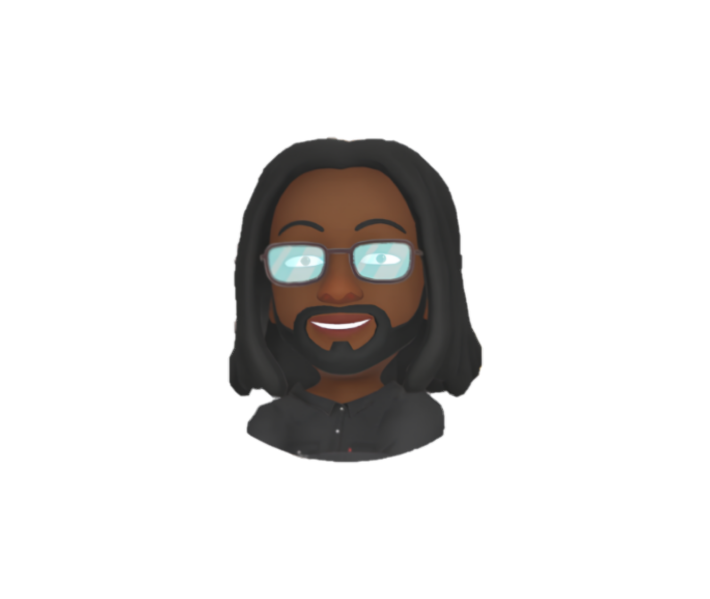
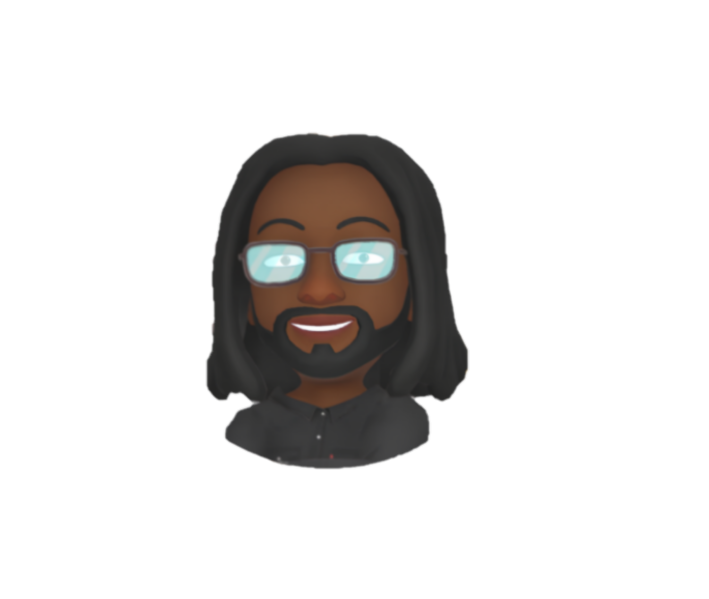
Part main mobile ok !

Changed region(s): [[0.2793, 0.2104, 0.6827, 0.7813]]

diff --git a/src/components/Main/Main.jsx b/src/components/Main/Main.jsx
@@ -1,23 +1,47 @@
 import './Main.css';
-import purpleLandscape from '../../assets/purple-landscape.png';
-import miniCurt from '../../assets/mini-curt.png';
 import Header from '../../common/Header/Header';
 import { useTranslation } from 'react-i18next';
+
+// Images
+import purpleLandscape from '../../assets/purple-landscape.png';
+import miniCurt from '../../assets/mini-curt.png';
+import iconGitHub from '../../assets/icon-github.png';
+import iconLinkedin from '../../assets/icon-linkedin.png';
+import iconMail from '../../assets/icon-mail.png';
 
 function Main() {
   let { t } = useTranslation();
 
   return (
-      <div className="Main">
-        <Header/>
-        <div className='container_main-img'>
-          <img className='purple_landscape' src={purpleLandscape} alt="purple landscape" />
-          <img className="mini_curt" src={miniCurt}  alt="mini curt" />
+    <div id="Main">
+      <Header/>
+      <div className='container-img'>
+        <img className='purple_landscape' src={purpleLandscape} alt={t('main.purple-landscape')} />
+        <img className="mini_curt" src={miniCurt}  alt="mini curt" />
       </div>
-      <h1>
-          FANCHONNA Curtis <br/>
-          {t('main.developer')} FULL STACK
-      </h1>
+      <div className='container-title'>
+        <h1>
+            FANCHONNA Curtis <br/>
+            {t('main.developer')} FULL STACK
+        </h1>
+        <div className='container-icons'>      
+            <a href='https://github.com/KeotiseuF'>
+              <img src={iconGitHub} alt={t('main.icon-github')} />
+            </a>
+            <a href='https://www.linkedin.com/in/f-curtis/'>
+              <img src={iconLinkedin} alt={t('main.icon-linkedin')} />
+            </a>
+            <a href='mailto:f.curtis.dev@gmail.com'>
+              <img src={iconMail} alt={t('main.icon-mail')} />
+            </a>
+        </div>
+      </div>
+      <div className='container_presentation'>
+        <h2>{t('main.title-presentation')}</h2>
+        <p>
+          {t('main.presentation')}
+        </p>
+      </div>
     </div>
   );
 }

diff --git a/src/components/Main/Main.css b/src/components/Main/Main.css
@@ -1,9 +1,4 @@
-.main {
-    background: aqua;
-    height: 100vh;
-}
-
-.container_main-img {
+.container-img {
     position: absolute;
     top: 0;
     z-index: 3;
@@ -19,13 +14,47 @@
     z-index: 1;
 }
 
-h1 {
-    text-align: center;
+.container-title {
+    display: flex;
+    align-items: center;
+    flex-direction: column;
     position: relative;
     z-index: 4;
-    font-size: x-large;
-    margin-top: 32vh;
+    padding: 28vh 10px 0 10px;
+}
+
+h1 {
+    text-align: center;
     line-height: 40px;
+    text-shadow: 0 3px #3a2069;
+    white-space: nowrap;
+}
+
+.container-icons {
+    display: flex;
+    justify-content: space-between;
+    width: 45vw;
+    margin-top: 15px;
+}
+
+.container-icons > a {
+    height: 32px;
+}
+
+.container-icons > a > img {
+    width: 35px;
+}
+
+.container_presentation {
+    display: flex;
+    align-items: center;
+    flex-direction: column;
+    margin-top: 6vh;
+    padding: 0 15px;
+}
+
+p {
+    width: 100%;
 }
 
 /* Part mobile */
@@ -35,11 +64,12 @@ h1 {
         width: 100vw;
         height: 50vh;
     }
+
     .mini_curt {
         width: 74%;
         height: 44%;
         top: 8vh;
-        left: 16%;
+        left: 18%;
         animation: up 0.7s ease-in-out;
     }
 }

diff --git a/src/common/NavBar/NavBar.jsx b/src/common/NavBar/NavBar.jsx
@@ -1,9 +1,25 @@
 import './NavBar.css'
+import { useTranslation } from 'react-i18next';
+
+// Images
+import iconMain from '../../assets/icon-main.png';
+import iconProjects from '../../assets/icon-projects.png';
+import iconAboutMe from '../../assets/icon-about_me.png';
+import iconContact from '../../assets/icon-contact.png';
 
 function NavBar () {
+    let { t } = useTranslation();
+
     return (
-        <div className='nav-bar'></div>
+        <nav>
+            <ul>
+                <li><a href="#Main"><img src={iconMain} alt={t('nav-bar.icon-home')} /></a></li>
+                <li><a href="#Projects"><img src={iconProjects} alt={t('nav-bar.icon-tasks')} /></a></li>
+                <li><a href="#AboutMe"><img src={iconAboutMe} alt={t('nav-bar.icon-information')} /></a></li>
+                <li><a href="#Contact"><img src={iconContact} alt={t('nav-bar.icon-contact')} /></a></li>
+            </ul>
+        </nav>
     )
 }
 
-export default NavBar; 
+export default NavBar;

diff --git a/src/index.css b/src/index.css
@@ -1,5 +1,5 @@
 @import-normalize;
-@import url('https://fonts.googleapis.com/css2?family=Kavoon&display=swap');
+@import url('https://fonts.googleapis.com/css2?family=Kavoon&family=Lora&display=swap');
 
 body {
     margin: 0;
@@ -10,9 +10,33 @@ body {
 
 h1 {
     font-family: 'Kavoon', serif;
-    color: white;
+    color: #f3e6f3;
+    font-size: 5.6vw;
+    letter-spacing: 3px;
+}
+
+h2 {
+    font-family: 'Kavoon', serif;
+    font-size: 5.6vw;
+    color: #3a2069;
+    border: double 5px #3a2069;
+    padding: 5px;
+    letter-spacing: 5px;
+    border-radius: 10px;
 }
 
 button {
     cursor: pointer;
+    font-family: 'Lora', serif;
+    font-size: medium;
+    color: #f3e6f3;
+    background-color: transparent;
+    border: solid 2px #f3e6f3;
+    line-height: 25px;
+}
+
+p {
+    font-family: 'Lora', serif;
+    color: #3a2069;
+    white-space: pre-line;
 }

diff --git a/src/App.jsx b/src/App.jsx
@@ -1,13 +1,17 @@
 import React from 'react';
 import './App.css';
-import NavBar from './common/NavBar/NavBar';
+
+// Components
 import Main from './components/Main/Main';
+import NavBar from './common/NavBar/NavBar';
+import Projects from './components/Projects/Projects';
 
 function App() { 
   return (
-    <div className="App">
+    <div id="App">
       <Main />
-      {/* <NavBar /> */}
+      <NavBar />
+      <Projects />
     </div>
   );
 }

diff --git a/src/common/Header/Header.css b/src/common/Header/Header.css
@@ -1,14 +1,16 @@
 .header {
-    position: relative;
+    position: absolute;
     z-index: 99;
     display: flex;
     justify-content: space-between;
-    padding: 0px 40px;
+    padding: 0 13%;
     margin-top: 25px;
+    top: 0;
+    width: 74vw;
 }
 
 .dark-mode {
     width: 25px;
     height: 25px;
-    background-color: white;
+    background-color: transparent;
 }

diff --git a/src/common/NavBar/NavBar.css b/src/common/NavBar/NavBar.css
@@ -1,5 +1,13 @@
-.nav-bar {
-    background: red;
-    width: 100%;
-    height: 37px;
+nav {
+    position: sticky;
+    top: 92%;
+    background: #3a2069;
+    height: 50px;
+    padding-top: 15px;
+}
+
+ul {
+    display: flex;
+    justify-content: space-evenly;
+    justify-content: space-around;
 }

diff --git a/src/components/Projects/Projects.jsx b/src/components/Projects/Projects.jsx
@@ -1,0 +1,9 @@
+import './Projects.css';
+
+function Projects() {
+    return(
+        <div className='container-projects'></div>
+    )
+}
+
+export default Projects;

diff --git a/src/common/Lang/Lang.css b/src/common/Lang/Lang.css
@@ -1,3 +1,8 @@
+button {
+    width: 40px;
+    box-shadow: -1.5px 1.5px 0 #f3e6f3;
+}
+
 ul {
     list-style: none;
     margin: 0;

diff --git a/src/components/Projects/Projects.css b/src/components/Projects/Projects.css
@@ -1,0 +1,3 @@
+.container-projects {
+    height: 100vh;
+}
